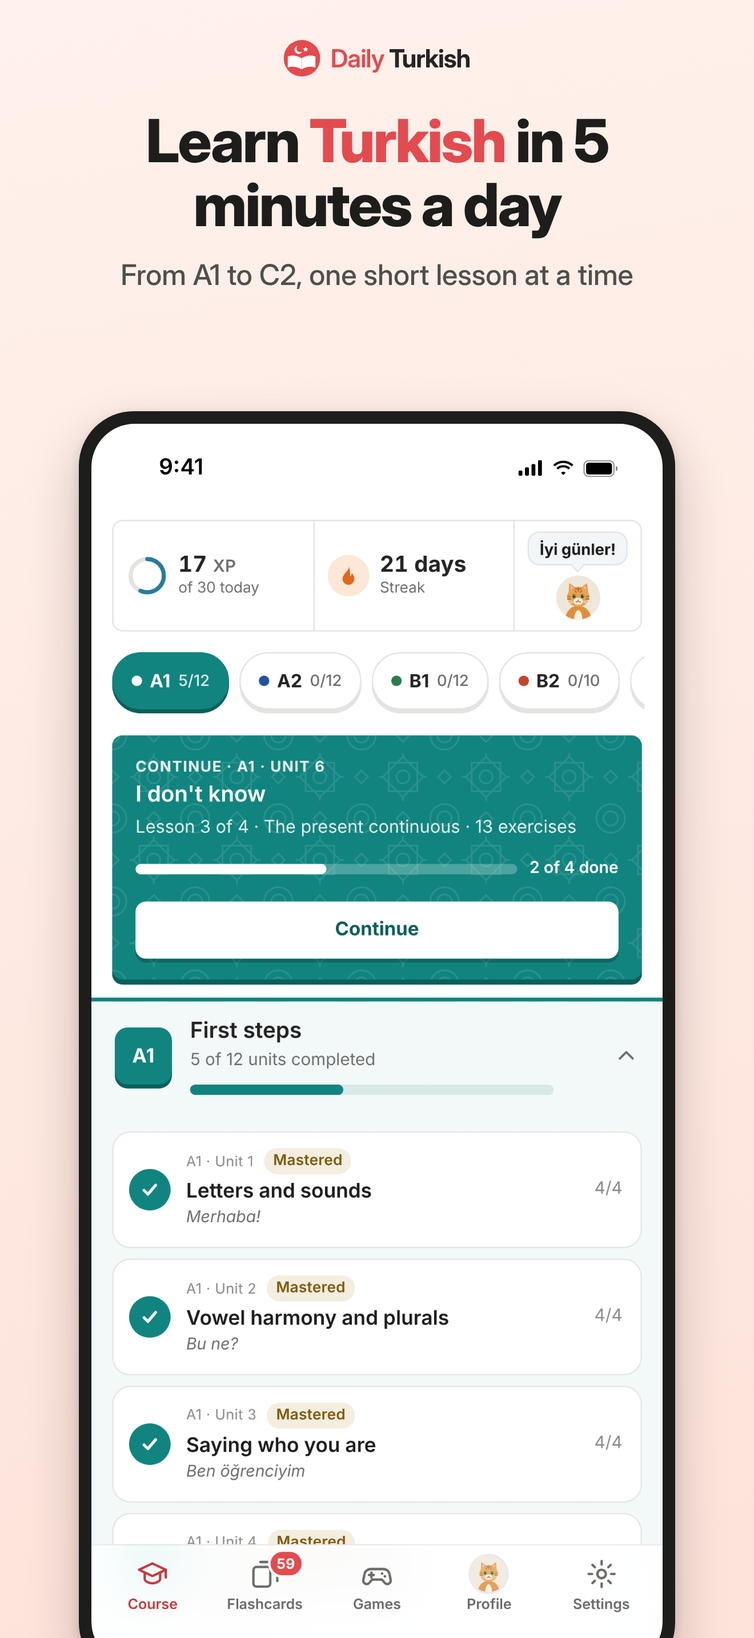
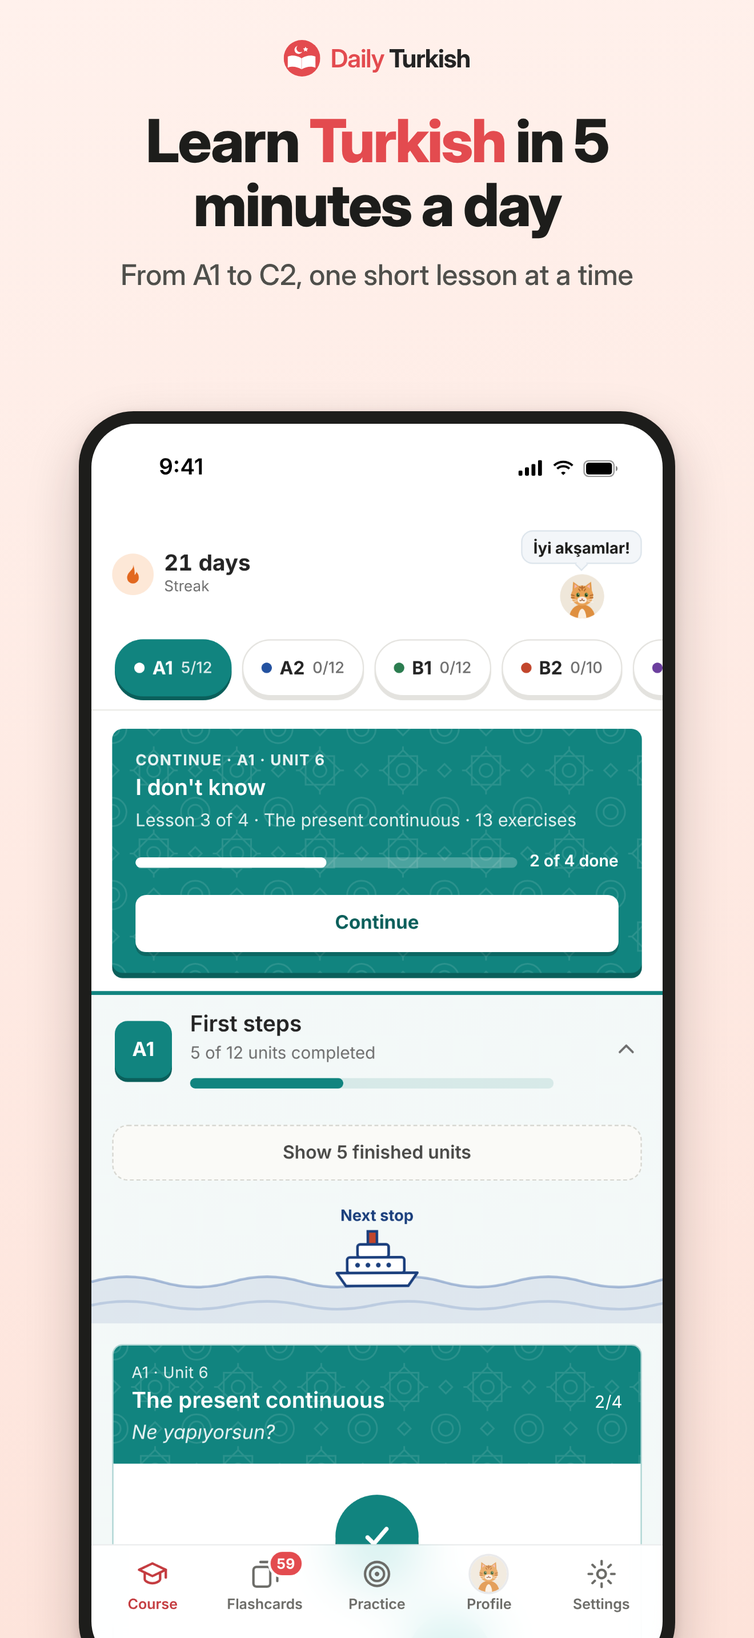
app update

Changed region(s): [[0.1242, 0.3103, 0.8697, 0.993], [0.4348, 0.3414, 0.6212, 0.3724], [0.5591, 0.993, 0.6212, 1.0]]

diff --git a/app/src/turkish-app.js b/app/src/turkish-app.js
@@ -176,13 +176,13 @@
     var ICONS = {
       course: svg('<path d="M2.5 9 12 4.5 21.5 9 12 13.5 2.5 9Z" ' + ST + '/><path d="M6.5 11v4.6c0 1.3 2.5 3 5.5 3s5.5-1.7 5.5-3V11" ' + ST + '/><path d="M21.5 9v5.5" ' + ST + '/>'),
       cards: svg('<rect x="3.5" y="7" width="12" height="14" rx="2.2" ' + ST + '/><path d="M8.5 3.5h9.8a2.2 2.2 0 0 1 2.2 2.2V17" ' + ST + '/>'),
-      games: svg('<path d="M7.5 8.5h9a4.5 4.5 0 0 1 4.4 3.6l.8 4.2a2.4 2.4 0 0 1-4.2 2l-2-2.3h-7l-2 2.3a2.4 2.4 0 0 1-4.2-2l.8-4.2a4.5 4.5 0 0 1 4.4-3.6Z" ' + ST + '/><path d="M8 11v3.4M6.3 12.7h3.4" ' + ST + '/><circle cx="15.6" cy="11.7" r=".9" fill="currentColor"/><circle cx="17.6" cy="13.7" r=".9" fill="currentColor"/>'),
+      games: svg('<circle cx="12" cy="12" r="8.5" ' + ST + '/><circle cx="12" cy="12" r="5" ' + ST + '/><circle cx="12" cy="12" r="1.6" fill="currentColor"/>'),
       settings: svg('<circle cx="12" cy="12" r="3" ' + ST + '/><path d="M12 2.8v2.4M12 18.8v2.4M2.8 12h2.4M18.8 12h2.4M5.5 5.5l1.7 1.7M16.8 16.8l1.7 1.7M5.5 18.5l1.7-1.7M16.8 7.2l1.7-1.7" ' + ST + '/>')
     };
     var TABS = [
       { id: "course", label: "Course", href: "/turkish.html", hub: "tab-course" },
       { id: "cards", label: "Flashcards", href: "/turkishcards.html" },
-      { id: "games", label: "Games", href: "/turkish.html#games" },
+      { id: "games", label: "Practice", href: "/turkish.html#games" },
       { id: "profile", label: "Profile", href: "/turkish.html#profile", hub: "tab-profile" },
       { id: "settings", label: "Settings", href: "/turkish.html#settings", hub: "tab-settings" }
     ];
@@ -232,7 +232,7 @@
     // The Games view's title, shown only there (turkish-app.css).
     var vc = onHub && doc.getElementById("v-course");
     if (vc && !doc.getElementById("app-games-h")) {
-      vc.insertAdjacentHTML("afterbegin", '<header class="app-games-h" id="app-games-h"><h1>Games</h1>' +
+      vc.insertAdjacentHTML("afterbegin", '<header class="app-games-h" id="app-games-h"><h1>Practice</h1>' +
         '<p>Practise your mistakes, hold a conversation in Turkish, or try the TYS practice test.</p></header>');
     }
 
@@ -249,6 +249,11 @@
           stats.classList.toggle("app-done", !!(sv.done && sv.current > 0));
         } catch (e) { /* no flame change */ }
         if (root.TRKFresh) stats.classList.add("app-fresh");
+        // APP-9l: the bar shows the streak (no "best") and the character; the XP cell is hidden by the CSS.
+        var ring = stats.querySelector(".ring");
+        if (ring && ring.closest(".stat")) ring.closest(".stat").classList.add("app-xp");
+        Array.prototype.forEach.call(stats.querySelectorAll(".stat .lbl"), function (l) { l.textContent = l.textContent.replace(/\s*·\s*best\s+\d+/, ""); });
+        setTimeout(function () { doc.documentElement.style.setProperty("--app-stats-h", stats.offsetHeight + "px"); }, 0);
         var say = root.TRKFresh ? ["Harika!", "Great job"] : met ? ["Aferin!", "Well done"] : h >= 5 && h < 11 ? ["Günaydın!", "Good morning"] : h >= 11 && h < 17 ? ["İyi günler!", "Have a nice day"]
           : h >= 17 && h < 22 ? ["İyi akşamlar!", "Good evening"] : ["İyi geceler!", "Good night"];
         var cell = doc.createElement("a");
@@ -326,6 +331,21 @@
             if (c.dataset.lvl === sel) c.setAttribute("aria-current", "true"); else c.removeAttribute("aria-current");
           });
           Array.prototype.forEach.call(levels.querySelectorAll("li.unit"), function (li) { if (unitOpen[li.id]) li.classList.add("app-open"); });
+          // APP-9l: finished units are hidden at first, behind one line at the top of the level's list.
+          Array.prototype.forEach.call(levels.querySelectorAll("details.level"), function (d) {
+            var ol = d.querySelector("ol.units"), done = d.querySelectorAll("li.unit.st-done:not(.is-here)").length;
+            if (!ol || !done || ol.querySelector(".app-showdone")) return;
+            var li = doc.createElement("li");
+            li.className = "app-showdone";
+            li.innerHTML = '<button type="button"></button>';
+            ol.insertBefore(li, ol.firstChild);
+            var paint = function () {
+              d.classList.toggle("app-done-shown", !!showDone[d.id]);
+              li.firstChild.textContent = showDone[d.id] ? "Hide finished units" : "Show " + done + " finished unit" + (done === 1 ? "" : "s");
+            };
+            li.firstChild.addEventListener("click", function () { showDone[d.id] = !showDone[d.id]; paint(); });
+            paint();
+          });
           // "Jump here" (APP-9g): only on the next locked unit, said plainly
           Array.prototype.forEach.call(levels.querySelectorAll('.uacts a[href*="?test="]'), function (a, k) {
             if (k === 0) { a.classList.add("app-jump"); a.textContent = "Already know this? Take the test"; }
@@ -337,7 +357,7 @@
       var mo = new root.MutationObserver(function () { mo.disconnect(); pick(); watch(); });
       var watch = function () { mo.observe(levels, { childList: true }); mo.observe(strip, { childList: true }); };
       // APP-9h: a unit shown as one row opens in full when tapped (its links still work as links); again to fold it.
-      var unitOpen = {};
+      var unitOpen = {}, showDone = {};
       levels.addEventListener("click", function (e) {
         var li = e.target.closest("li.unit"), card = li && e.target.closest(".ucard");
         if (!card || li.classList.contains("is-here") || e.target.closest("a, button")) return;
@@ -617,10 +637,24 @@
     if (onLesson) {
       var q = root.location.search, toGames = /[?&](dialogue|exam|practice)\b/.test(q);
       var stage = doc.getElementById("stage") || doc.body;
+      // APP-9n: the header's logo becomes a back arrow: to the page before (the course, Practice, a guide…), or, if the
+      // lesson was opened some other way, to the course (Practice for conversations, the TYS and mistakes).
+      var home = doc.querySelector(".at-hdr .at-home");
+      if (home && !home.dataset.app) {
+        home.dataset.app = "1";
+        home.classList.add("app-backarrow");
+        home.setAttribute("aria-label", "Back");
+        home.innerHTML = '<svg viewBox="0 0 24 24" width="26" height="26" aria-hidden="true"><path d="M15 5 8 12l7 7" fill="none" stroke="currentColor" stroke-width="2.2" stroke-linecap="round" stroke-linejoin="round"/></svg>';
+        if (toGames) home.href = "/turkish.html#games";
+        home.addEventListener("click", function (e) {
+          var ref = doc.referrer || "";
+          if (root.history.length > 1 && ref.indexOf(root.location.host) >= 0) { e.preventDefault(); root.history.back(); }
+        });
+      }
       watch(stage, function () {
         // After a conversation, the TYS or practising mistakes, the way back is to Games.
         if (toGames) Array.prototype.forEach.call(stage.querySelectorAll('a[href="/turkish.html"]'), function (a) {
-          if (/Back to the course/.test(a.textContent)) { a.href = "/turkish.html#games"; a.textContent = "Back to Games"; }
+          if (/Back to the course/.test(a.textContent)) { a.href = "/turkish.html#games"; a.textContent = "Back to Practice"; }
         });
         // The start screen: three new words, the rest one tap away; no "Card" links.
         var wl = stage.querySelector(".start .wlist");

diff --git a/app/src/turkish-app.css b/app/src/turkish-app.css
@@ -176,7 +176,7 @@ html.app-games #v-course .today > .tys-mini { order: 8; }
 html.app-games #v-course .today > .mis-mini, html.app-games #v-course .today > .dlg-mini { margin-top: 0; }
 
 /* Course: the top bar is XP · streak · your character with a word for the time of day. */
-html[data-app] #v-course .stats { grid-template-columns: minmax(0, 1fr) minmax(0, 1fr) auto; }
+html[data-app] #v-course .stats { grid-template-columns: minmax(0, 1fr) auto; }
 html[data-app] .stats .stat { padding: 12px 10px; gap: 8px; }
 html[data-app] .stats .stat .ring, html[data-app] .stats .stat .flame { width: 32px; height: 32px; }
 html[data-app] .stats .stat .big { font-size: 17px; white-space: nowrap; }
@@ -344,3 +344,32 @@ html[data-app] #levels li.unit:not(.is-here):not(.app-open) h3 { font-size: 15.5
 html[data-app] #levels li.unit:not(.is-here):not(.app-open) .utr { font-size: 12.5px !important; margin: 0 !important; color: #6f6f6f !important; }
 html[data-app] #levels li.unit:not(.is-here):not(.app-open) .uprog { color: #8a8a86 !important; }
 html[data-app] #levels li.unit.app-open:not(.is-here) { margin-bottom: 14px; }
+
+/* ── APP-9l ── */
+/* Course header: the streak and the character, no XP, no borders; it and the level strip stay at the top. */
+html[data-app] #v-course .stats .app-xp { display: none; }
+html[data-app] #v-course .stats { border: 0; box-shadow: none; border-radius: 0; background: #fff; position: sticky; top: var(--app-top, 0px); z-index: 30;
+  margin: 0 -16px; padding: 0 6px; }
+html[data-app] #v-course .stats .stat + .stat { border-left: 0; }
+html[data-app] #v-course #lvl-nav { position: sticky; top: calc(var(--app-top, 0px) + var(--app-stats-h, 64px)); z-index: 29; background: #fff;
+  margin: -14px -16px 0; padding: 8px 18px 10px; border-bottom: 1px solid #ecece8; }
+html[data-app] #v-course .layout { gap: 14px; }
+/* Finished units: hidden until "Show N finished units". */
+html[data-app] #levels details.level:not(.app-done-shown) li.unit.st-done:not(.is-here) { display: none; }
+html[data-app] #levels .app-showdone { list-style: none; margin: 0 0 10px; }
+html[data-app] #levels .app-showdone button { width: 100%; padding: 10px 14px; border-radius: 12px; border: 1px dashed #d6d6d0; background: #fafaf7; font: inherit; font-size: 14px; font-weight: 600; color: #4a4a48; }
+/* Profile: the section menu in the page's order (signed out, the account card comes first), and no "Out of what's written so far". */
+html[data-app] .pf-nav ol { display: flex; }
+html[data-app] .pf-nav .pf-nav-sep { display: none; }
+html[data-app] .pf-grid:not(:has(.pf-who)) .pf-nav li.pf-acct-nav { order: -1; }
+html[data-app] #pf-s-yours .pf-card-h > span { display: none; }
+
+/* ── APP-9m: no web-page behaviour on a long press ──
+   No link preview or "Open / Copy link" box (-webkit-touch-callout; the native side also turns off WKWebView's link
+   previews), and no text selection, as in a native app; typing fields keep both. */
+html[data-app], html[data-app] * { -webkit-touch-callout: none; -webkit-user-select: none; user-select: none; }
+html[data-app] input, html[data-app] textarea, html[data-app] [contenteditable], html[data-app] [contenteditable] * { -webkit-touch-callout: default; -webkit-user-select: text; user-select: text; }
+
+/* APP-9n: the lesson header's back arrow (in place of the logo). */
+html[data-app] .at-hdr .at-home.app-backarrow { min-width: 44px; min-height: 44px; justify-content: center; color: #1d1d1b; margin-left: -10px; }
+html[data-app] .at-hdr .at-home.app-backarrow svg { display: block; }

diff --git a/app/ios/App/App/SceneDelegate.swift b/app/ios/App/App/SceneDelegate.swift
@@ -10,6 +10,8 @@ import StoreKit
 class AppViewController: CAPBridgeViewController {
     override func capacitorDidLoad() {
         bridge?.registerPluginInstance(WidgetBridgePlugin())
+        // APP-9m: a long press on a link shows no preview card with the page's address.
+        webView?.allowsLinkPreview = false
     }
 }
 

diff --git a/turkish/PROJECT.md b/turkish/PROJECT.md
@@ -1584,3 +1584,6 @@ One row per conversation, newest at the bottom.
 | 2026-11-12 | APP-9g | **Review follow-ups, asked by Grégoire** (his picks from APP-9f), app only unless said. **Shorter path (#1)**: shown as a preview image only (finished units as a ✓ row, future ones as a 🔒 row, the current unit in full; 11,150 → 2,690 px), waiting for his go. **New cards from finished units** by default in the app (`onlyTaughtWords` set once, "trk:app:taught"), so a new learner's Flashcards count starts at 0. **Lesson start**: three new words and "+N more", no "Card" links, Start and Back in a bar stuck to the bottom. **No Turkish voice note** once, then only in Settings (`.voice-note` on the lesson, TYS and conversation notes in `turkishlesson.html`; "trk:app:voice-told"); the TYS and conversation notes say "this iPhone" without "reload the page" in the app; account texts (`turkish.html`, `turkish-account.js`) say "this iPhone" / "close and reopen the app" in the app. **Flashcards › Settings removed** in the app (the view redirects to Settings; its only extra, the interval note, moved to Settings › Flashcards). **Backup**: Settings' progress box is back as "Backup" (Export, Import; no Reset), and the listing names it again. **Flow**: Back to Games after a conversation, the TYS or practice; a Back link on guides; "Jump here" only on the next locked unit, as "Already know this? Take the test"; a first-launch welcome (character, "Ready for your first Turkish lesson?", Start lesson 1 / Look around first; "trk:app:welcomed"; the reminder offer waits for it); after a lesson the top bar says *Harika!* and the XP ring refills; Games keeps "Your mistakes" with a cheer when empty, and gets a **Speed round** (10 words, 4 meanings, 60 s, +1 XP a right answer through `TRK.progress.addXp`, best in "trk:app:speed"). **Look**: the flame turns orange and pops once today counts; no "Turkish · …" kickers on Profile and Flashcards; a bigger Flashcards start card with "N cards · about M min" (12 s a card); Statistics lead with "You remember about 9 out of 10 words", retention and card counts behind Details; My Profile shows the next three achievements (See all 32) and folds Study calendar, Your progress and Levels (6,700 → 2,750 px); tab labels 11 px, darker when off; **red native launch screen** (LaunchScreen.storyboard: #e34b4f with the white mark 150 pt centred; Splash image set now holds the 150/300/450 px mark under its old file names; `capacitor.config.json` ios.backgroundColor #e34b4f) so it runs into the daily splash. **Content**: one line on *sen* and *siz* on the conversations list (site and app); each scene shows ✓ or 🔒 against its unit; guides' colour legend behind an ⓘ button. **Home-screen widget**: new target `DailyTurkishWidget` (WidgetKit, iOS 15+, small and medium: flame + streak, "Done today"/"Keep it today", word of the day with its meaning; `app/ios/App/DailyTurkishWidget/`), embedded in the app (`project.pbxproj`: target, Embed Foundation Extensions, dependency, `app.dailyturkish.widget`); App Group `group.app.dailyturkish` (`App/App.entitlements`, `DailyTurkishWidget.entitlements`); `App/SceneDelegate.swift` now starts `AppViewController`, which registers `WidgetBridge` (`update({ json })` → shared UserDefaults "widget", then `WidgetCenter.reloadAllTimelines()`); `turkish-app.js` sends the streak, its last day, the day-start hour and the words of the next 7 days on every save and when the app goes to the background; the word of each day is now shared with the notifications and kept once chosen (`dayWords`, "trk:app:wotd"). Workflow: a step signs the unsigned archive's widget and app ad hoc with their entitlements, since the export keeps only the entitlements of an existing signature. `RELEASE.md` B2: the App Group and the widget's App ID to register first. | Not run. App build: 460 files, 1,000 cards. Headless Chromium at 390 px: welcome and its link, taught-words default, three words and the sticky Start, the voice note once, Jump here (1 shown, 53 hidden), Games with the empty-mistakes card and a full Speed round (score, XP, best), profile folds and next achievements, Settings with Backup and the interval note, cards start card and stats, cards settings redirect, Back to Games, conversations ✓/🔒, guide Back and legend button, no page wider than the screen, no script errors. Node: `dayWords` stable after studying the day's word; `plan()` unchanged. pbxproj parsed with mod-pbxproj (two targets, embed phase, dependency, entitlements per configuration). | Not compiled (no Mac): the widget, the bridge and the storyboard are first built by the workflow; if it fails, read the Archive step. Signing the App Group depends on B2 being done. Nothing committed by Claude. |
 | 2026-11-12 | APP-9h | **The short path**, approved by Grégoire after the APP-9g preview, app only (`turkish-app.css`, `turkish-app.js`). In the level picked in the strip, only the unit with the next lesson (`li.unit.is-here`) keeps its ferry, trail, lessons, grammar links and buttons; finished units are one row with a ✓ in the level colour, the units ahead one row with a lock (faded); tapping a row opens it in full (`li.app-open`, kept through the hub's redraws), tapping again folds it; the level's summary and "you can…" list are hidden. A1 with demo progress: 11,150 → 2,690 px; A2: 1,780 px. Store screenshot 1 re-rendered. | Not run. Headless Chromium at 390 px: heights above, no page wider than the screen, open/keep/fold, no script errors. | Nothing committed by Claude. |
 | 2026-11-12 | APP-9j | **App Store search and conversion**, asked by Grégoire after the ASO review. `app/store/listing.md`: subtitle *Learn Turkish: lessons & words* (30/30, was *Learn Turkish from A1 to C2*); keywords `speak,language,grammar,vocabulary,flashcards,verbs,phrases,beginner,istanbul,turkey,türkçe,tys` (94); new section **Other languages**: Spanish (Mexico) written in English as a second US keyword set (subtitle *Turkish course for beginners*, keywords travel…phrasebook), English (U.K.) (keywords with *holiday*), German (subtitle *Türkisch lernen in Lektionen*, German keywords, promotional text and description, first line "the app is in English") and French (subtitle *Apprendre le turc pas à pas*, the same in French; also for French (Canada)); the character table at the top recounted from the blocks (it still had the APP-5 numbers); Content Rights now true. **Captioned screenshots** in `app/store/screenshots/captioned/` (1320×2868: logo, headline with the search word in red, a line under it, the screen in a dark phone frame on a light tint): *Learn Turkish in 5 minutes a day*, *Speak Turkish with confidence*, *Keep your streak going*, *1,000 essential Turkish words*, *Turkish grammar, made clear*, *Watch your Turkish grow*; bare screen 5 re-rendered (Back link, ⓘ legend button, now not full width: `.app-legend-btn` align-self). **FrequencyWords credit** back in About › The course (site and app), with links to the list and CC BY-SA 4.0. **Rating prompt**: `WidgetBridge.requestReview()` (`App/SceneDelegate.swift`, StoreKit: `AppStore.requestReview(in:)` on iOS 16+, `SKStoreReviewController` before), asked by `turkish-app.js` 2.2 s after coming back to the course from a lesson that finished a unit, or from any lesson on a streak of 5+ days; only after 3 days and 6 lessons, at most 3 times, 4 months apart ("trk:app:rate", "trk:app:since"; iOS shows it at most 3 times a year). `RELEASE.md` steps 14 and 18. | Not run. Counts checked by `len()` in the edit script (`app/node_modules/.cache/listing_edit.py`, run on a copy first). Screenshots looked at. | Not compiled (the review method, like the widget, is first built by the workflow). Nothing committed by Claude. |
+| 2026-11-12 | APP-9l | Fixes asked by Grégoire after testing. **Red flash between pages**: `capacitor.config.json` ios.backgroundColor back to #ffffff (the red web-view background showed during each page load; the launch screen stays red). **Course header**: no XP cell (`.app-xp`), no "best" in the streak, no borders; the header and the level strip stay at the top while scrolling (sticky, the strip placed under the header's measured height, `--app-stats-h`). **Finished units hidden** at first behind "Show N finished units" at the top of the level's list, so the page opens on the current unit. **Games renamed Practice**, with a target icon (tab, title, "Back to Practice"; the hash stays `#games`). **My Profile**: the section menu follows the page's order (signed out, "Account & character" first; the separator hidden); "Out of what's written so far" removed. Listing and RELEASE say Practice; store screenshots 1, 5, 6 and their captioned versions re-rendered. | Not run. Headless Chromium at 390 px: course 2,256 px, header and strip stuck at 0 and 84 px when scrolled, Show/Hide finished units, Practice tab, profile menu order, no page wider than the screen, no script errors. | Nothing committed by Claude. |
+| 2026-11-13 | APP-9m | **No preview box on a long press**, asked by Grégoire: `turkish-app.css` sets `-webkit-touch-callout: none` and no text selection on every app page (inputs, textareas and editable text keep both), and `AppViewController` (`App/SceneDelegate.swift`) turns off `webView.allowsLinkPreview`. | Not run. | Not tested on a device (WebKit on iOS only). Nothing committed by Claude. |
+| 2026-11-13 | APP-9n | **Back arrow in lessons**, asked by Grégoire: on the lesson page (lessons, reviews, tests, practice, conversations, TYS) the header's logo becomes a ‹ arrow (`turkish-app.js`, `.app-backarrow`): back to the page before when there is one in the app, else to the course (Practice for conversations, the TYS and mistakes). The lesson's own ✕ (quit, with its confirmation) is unchanged. | Not run. | Nothing committed by Claude. |

diff --git a/app/store/listing.md b/app/store/listing.md
@@ -12,9 +12,9 @@ and from the pages themselves (32 achievements, the reminder, haptics, the optio
 | Subtitle | 30 | 30 |
 | Promotional text | 162 | 170 |
 | Keywords | 94 | 100 |
-| Description | 2,565 | 4,000 |
+| Description | 2,568 | 4,000 |
 | What's New | 235 | 4,000 |
-| App Review notes | 1,248 | 4,000 |
+| App Review notes | 1,235 | 4,000 |
 
 ## App Information (General › App Information)
 
@@ -79,7 +79,7 @@ Price: Free (USD 0). Availability: all countries and regions.
 A Turkish course in short daily lessons, from A1 to C2, with a grammar guide for every unit and 1,000 high-frequency words to review. Works offline. Free, no ads.
 ```
 
-**Description** (2,565/4,000)
+**Description** (2,568/4,000)
 
 ```text
 Daily Turkish is a Turkish course for English speakers, built for a few minutes a day. Everything is inside the app: it works offline, needs no account and has no ads.
@@ -108,7 +108,7 @@ KEEP GOING
 • An optional daily reminder at the time you choose, alternating a word of the day and a nudge to study. It skips the days you've already met your goal.
 • Haptic feedback on right and wrong answers, which you can turn off.
 • A home-screen widget with your streak and the word of the day.
-• Games: a 60-second speed round, conversations, and the exercises you missed.
+• Practice: a 60-second speed round, conversations, and the exercises you missed.
 
 YOUR PROGRESS STAYS YOURS
 • Your progress is saved on your iPhone. Back it up to Files or through the share sheet, and import it again.
@@ -120,7 +120,7 @@ The app and its explanations are in English.
 
 **Keywords** (94/100). Comma-separated, no spaces after commas. Apple combines them with the words of the name and
 subtitle ("daily", "turkish", "learn", "lessons", "words"), so those aren't repeated; Apple also matches plurals. No other app's
-name is used. "tys" (the Turkish proficiency exam the Games practice test prepares for) is a niche no one else targets.
+name is used. "tys" (the Turkish proficiency exam the practice test in the Practice tab prepares for) is a niche no one else targets.
 
 ```text
 speak,language,grammar,vocabulary,flashcards,verbs,phrases,beginner,istanbul,turkey,türkçe,tys
@@ -280,7 +280,7 @@ VOS DONNÉES
 
 Sign-in required: **unticked**. Contact: your first and last name, phone and email (seen by Apple only).
 
-**Notes** (1,248/4,000)
+**Notes** (1,235/4,000)
 
 ```text
 Daily Turkish is a complete offline Turkish course (levels A1 to C2): 226 lessons with instant feedback, a grammar guide per unit and 1,000 spaced-repetition flashcards, all built into the app. No account or network needed; an optional profile (Profile tab) saves the progress online, with email and password, and can be deleted in the app (Profile tab > Account & character > Delete my profile).
@@ -292,7 +292,7 @@ Native features:
 - Progress backup through the iOS share sheet and the Files app, and import from Files (Settings > Backup).
 - An optional profile (Profile tab, email and password) that syncs the progress with the website; Delete my profile is on the same tab.
 
-To try it: on the Course tab, tap Continue to start the first lesson and answer a few exercises. Then open the Flashcards tab and tap Start studying. Then open the Games tab and start a conversation.
+To try it: on the welcome screen, tap Start lesson 1 and answer a few exercises. Then open the Flashcards tab and tap Start studying. Then open the Practice tab and start a conversation.
 ```
 
 Version release: Manually or Automatically, your choice.

diff --git a/app/RELEASE.md b/app/RELEASE.md
@@ -74,11 +74,11 @@ archive first).
    - the header's glass behind the clock and the Dynamic Island, nothing hidden under it while scrolling, the
      bottom of each page clear of the home bar; turning the phone doesn't rotate the app;
    - the first opening of the day: a red screen with the logo for about a second; the reminder offer on the
-     Course tab (Turn on reminders brings iOS's question); Games (mistakes, Conversations, TYS);
+     Course tab (Turn on reminders brings iOS's question); Practice (mistakes, Speed round, Conversations, TYS);
    - Settings › Haptics off: no more taps;
    - the reminder (Settings › Daily reminder, time 2 minutes ahead, leave the app): a word of the day or a nudge;
    - the widget: long-press the home screen › **+** › Daily Turkish › small or medium: your streak and today's word;
-   - the first launch (on a fresh install): Tekir's welcome and Start lesson 1; Games › Speed round;
+   - the first launch (on a fresh install): Tekir's welcome and Start lesson 1; Practice › Speed round;
    - the tab bar (Course, Flashcards with its red count, Profile with your character, Settings with a Settings | About switch at the top),
      and on Profile: sign in with email and password, progress synced, Delete my profile.
 13. **Fix and repeat.** For any problem: fix (or ask Claude), commit, push, run the workflow again.
